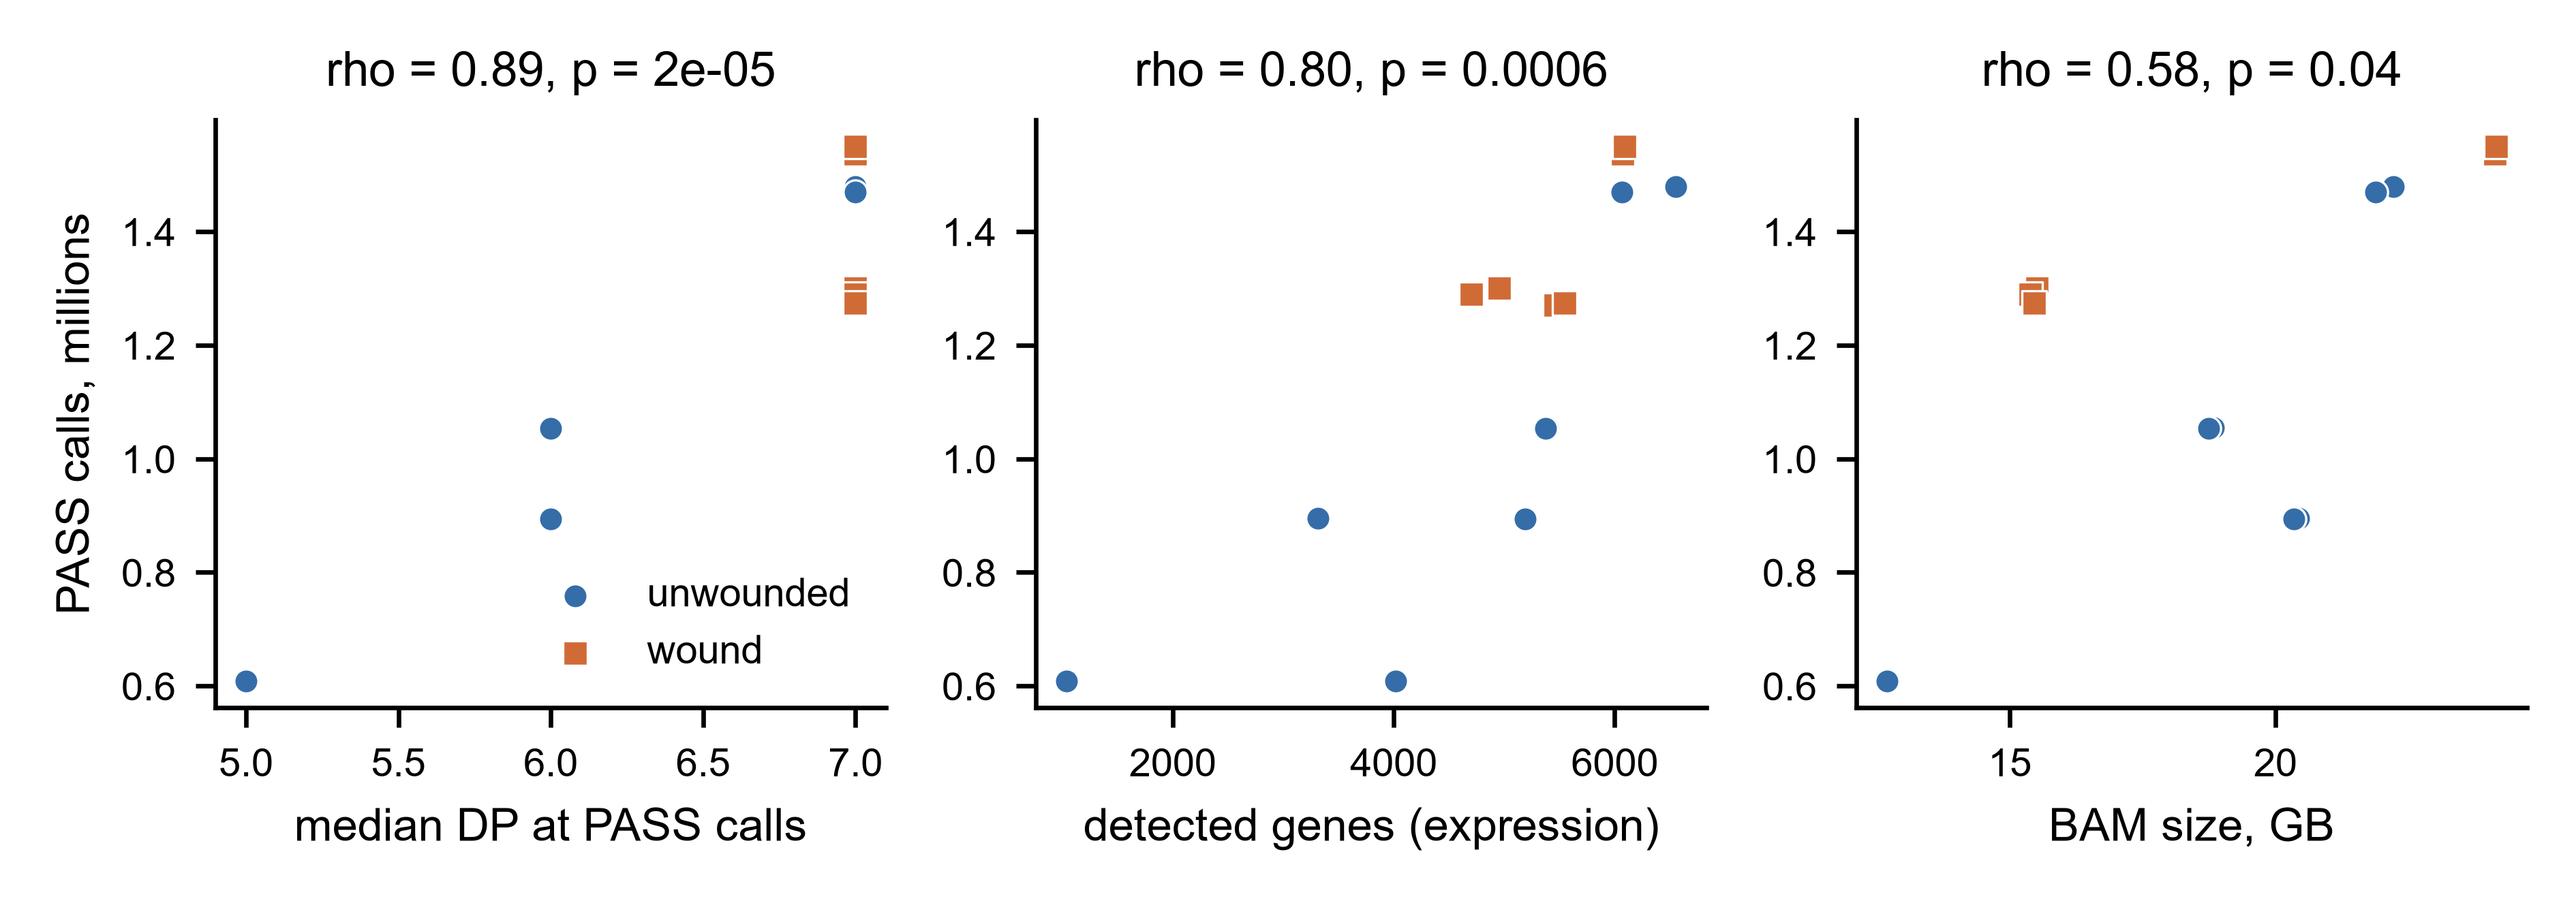
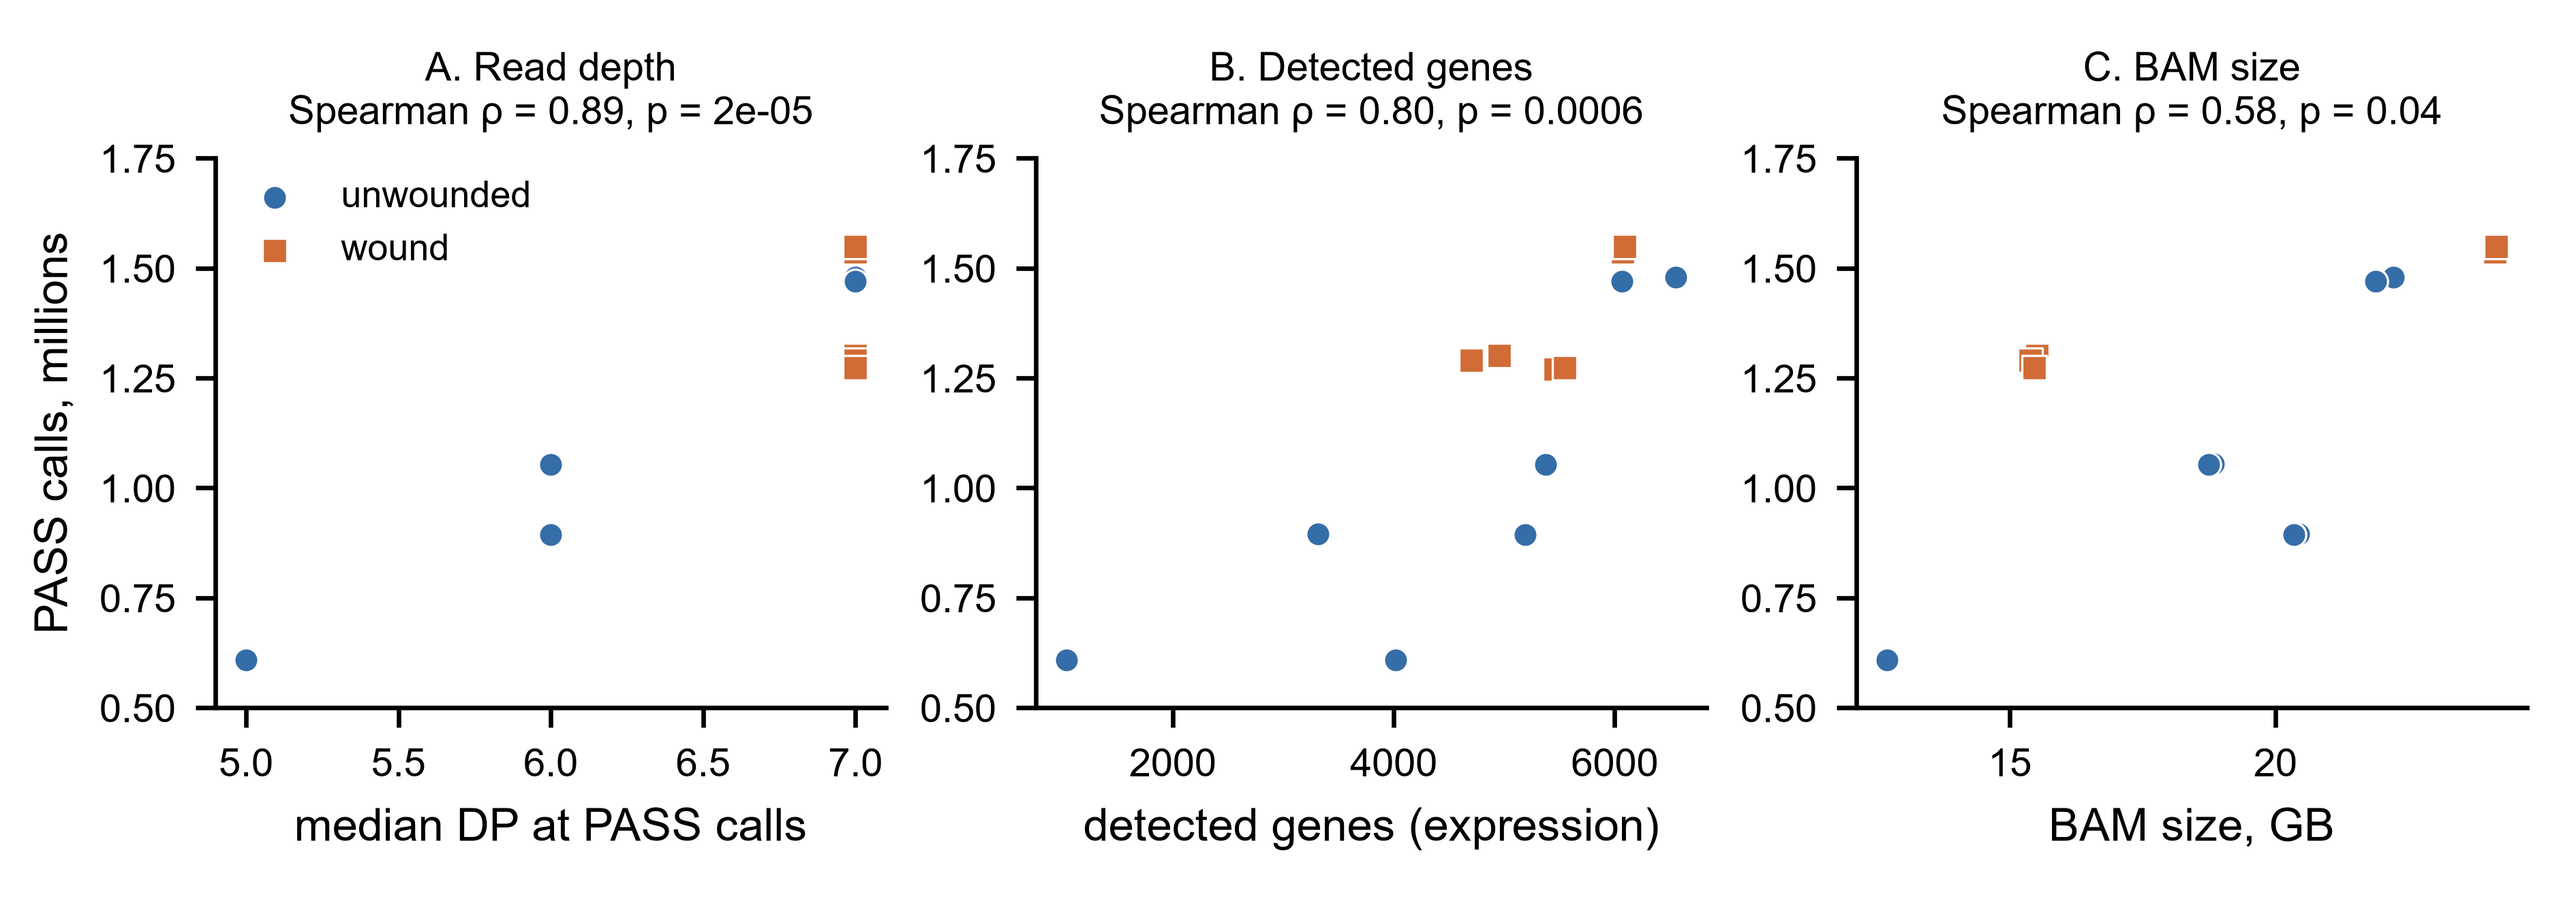
Figure 3 (NAN RK): panel letters, legend off the data

diff --git a/revision_2026-11-21/scripts/light_04_article_figures.py b/revision_2026-11-21/scripts/light_04_article_figures.py
@@ -121,12 +121,14 @@ def main() -> int:
     per = pd.read_csv(a.res / "C_per_run_calls_vs_coverage.tsv", sep="\t")
     cor = pd.read_csv(a.res / "C_coverage_correlations.tsv", sep="\t")
     fig, axes = plt.subplots(1, 3, figsize=(W, 2.2))
-    for ax, col, lab in zip(axes, ["median_dp", "detected_genes", "bam_gb"], ["median DP at PASS calls", "detected genes (expression)", "BAM size, GB"]):
+    for ax, col, lab, ttl in zip(axes, ["median_dp", "detected_genes", "bam_gb"], ["median DP at PASS calls", "detected genes (expression)", "BAM size, GB"],
+                                 ["A. Read depth", "B. Detected genes", "C. BAM size"]):
         for cnd, mk, c in [("unwounded", "o", BLUE), ("wound", "s", ORANGE)]:
             d = per[per.condition == cnd]; ax.scatter(d[col], d.n_pass / 1e6, marker=mk, color=c, s=18, label=cnd, edgecolor="white", lw=0.4)
         r = cor[(cor.x == col) & cor.level.str.startswith("run")].iloc[0]
-        ax.set_xlabel(lab); ax.set_title(f"rho = {r.spearman_rho:.2f}, p = {r.p:.1g}")
-    axes[0].set_ylabel("PASS calls, millions"); axes[0].legend(frameon=False, loc="lower right")
+        ax.set_xlabel(lab); ax.set_title(f"{ttl}\nSpearman ρ = {r.spearman_rho:.2f}, p = {r.p:.1g}", fontsize=7)
+        ax.set_ylim(0.5, 1.75)
+    axes[0].set_ylabel("PASS calls, millions"); axes[0].legend(frameon=False, loc="upper left", fontsize=6.5, borderaxespad=0.2)
     fig.tight_layout(); fig.savefig(a.nanrk / "Figure_3_coverage_dependence.png"); plt.close(fig)
 
     sw = pd.read_csv(a.res / "B_cohort_filter_sweep.tsv", sep="\t")
